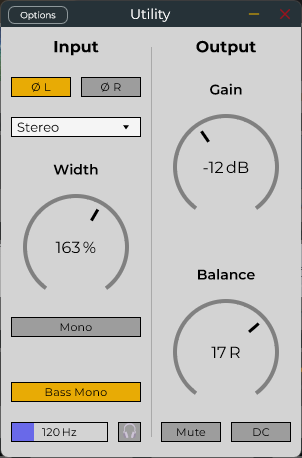
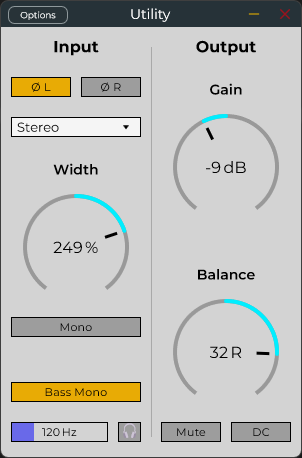
background arc of the rotary slider to visually represent the current value, filling with a specific color

diff --git a/Source/PluginEditor.h b/Source/PluginEditor.h
@@ -83,6 +83,7 @@ struct LookAndFeel : juce::LookAndFeel_V4
     {
         float visualSliderPosProportional = sliderPosProportional;
 
+        // Specific mapping for Width slider
         if (slider.getName() == "Width Slider")
         {
             auto currentValue = slider.getValue();
@@ -100,39 +101,89 @@ struct LookAndFeel : juce::LookAndFeel_V4
             }
         }
 
-
         auto bounds = juce::Rectangle<float>(x, y, width, height).reduced(4.0f);
         auto radius = juce::jmin(bounds.getWidth(), bounds.getHeight()) / 2.0f;
         auto center = bounds.getCentre();
+        auto arcThickness = 4.0f; // Define arc thickness
 
+        // Calculate the angle corresponding to the *visual* position
         auto angle = rotaryStartAngle + visualSliderPosProportional * (rotaryEndAngle - rotaryStartAngle);
+        auto centerAngle = (rotaryStartAngle + rotaryEndAngle) / 2.0f; // Angle at 12 o'clock
 
-        g.setColour(juce::Colours::grey);
-        juce::Path arc;
-        arc.addCentredArc(center.x, center.y, radius, radius, 0.0f,
-                          rotaryStartAngle, rotaryEndAngle, true);
-        g.strokePath(arc, juce::PathStrokeType(4.0f));
+        // --- Define Colors ---
+        auto backgroundColour = juce::Colours::grey.withAlpha(0.7f);
+        auto activeColour = juce::Colour(0, 238, 255); // Your active color
 
+        // --- Draw the full background arc (inactive part) ---
+        g.setColour(backgroundColour);
+        juce::Path backgroundArc;
+        backgroundArc.addCentredArc(center.x, center.y, radius, radius, 0.0f,
+                                    rotaryStartAngle, rotaryEndAngle, true);
+        // Using 'butt' end caps for the background arc might look cleaner if overlapping the active arc
+        g.strokePath(backgroundArc, juce::PathStrokeType(arcThickness, juce::PathStrokeType::curved, juce::PathStrokeType::butt));
+
+        // --- Determine if it's a centered slider ---
+        bool isCenteredSlider = (slider.getTextValueSuffix().compareIgnoreCase("<balance>") == 0 ||
+                                 slider.getTextValueSuffix().compareIgnoreCase("<mid/side>") == 0 ||
+                                 slider.getName() == "Width Slider" ||
+                                 slider.getName() == "Gain Slider");
+
+        // --- Draw the active arc portion ---
+        juce::Path activeArc;
+        g.setColour(activeColour);
+
+        if (isCenteredSlider)
+        {
+            if (!juce::approximatelyEqual(angle, centerAngle)) // Avoid drawing if exactly at center
+            {
+                if (angle > centerAngle) // Value is to the right of center
+                {
+                    activeArc.addCentredArc(center.x, center.y, radius, radius, 0.0f,
+                                            centerAngle, angle, true);
+                }
+                else // Value is to the left of center
+                {
+                    activeArc.addCentredArc(center.x, center.y, radius, radius, 0.0f,
+                                            angle, centerAngle, true);
+                }
+            }
+        }
+        else // Normal slider (e.g., Gain) - fills from the start
+        {
+            if (!juce::approximatelyEqual(angle, rotaryStartAngle)) // Avoid drawing if exactly at start
+            {
+                activeArc.addCentredArc(center.x, center.y, radius, radius, 0.0f,
+                                        rotaryStartAngle, angle, true);
+            }
+        }
+
+        // Draw the active arc if it has a meaningful length
+        if (!activeArc.isEmpty())
+            // Use rounded ends for the active part for a nicer look
+            g.strokePath(activeArc, juce::PathStrokeType(arcThickness, juce::PathStrokeType::curved, juce::PathStrokeType::rounded));
+
+
+        // --- Draw Pointer (Original Style) ---
         float pointerLength = radius * 0.85f;
         float pointerThickness = 3.0f;
+        // *** REVERTED START POINT CALCULATION ***
         juce::Point<float> startPoint = center.getPointOnCircumference(radius * 0.6f, angle);
         juce::Point<float> endPoint = center.getPointOnCircumference(pointerLength, angle);
 
-        g.setColour(juce::Colours::black);
+        g.setColour(juce::Colours::black); // Pointer color
         g.drawLine({ startPoint, endPoint }, pointerThickness);
 
-        juce::String suffix = makeSuffix(slider);
 
-        g.setColour(juce::Colours::black);
+        // --- Draw Text ---
+        juce::String suffix = makeSuffix(slider);
+        g.setColour(juce::Colours::black); // Text color
         g.setFont(FontHeight::M);
+
         auto value = 0.f;
-        if (slider.getTextValueSuffix().compareIgnoreCase("<balance>") == 0)
+        if (slider.getTextValueSuffix().compareIgnoreCase("<balance>") == 0 ||
+            slider.getTextValueSuffix().compareIgnoreCase("<mid/side>") == 0)
         {
-            value = abs(slider.getValue());
-        }
-        else if (slider.getTextValueSuffix().compareIgnoreCase("<mid/side>") == 0)
-        {
-            value = abs(slider.getValue());
+            value = std::abs(slider.getValue());
         }
         else
         {
